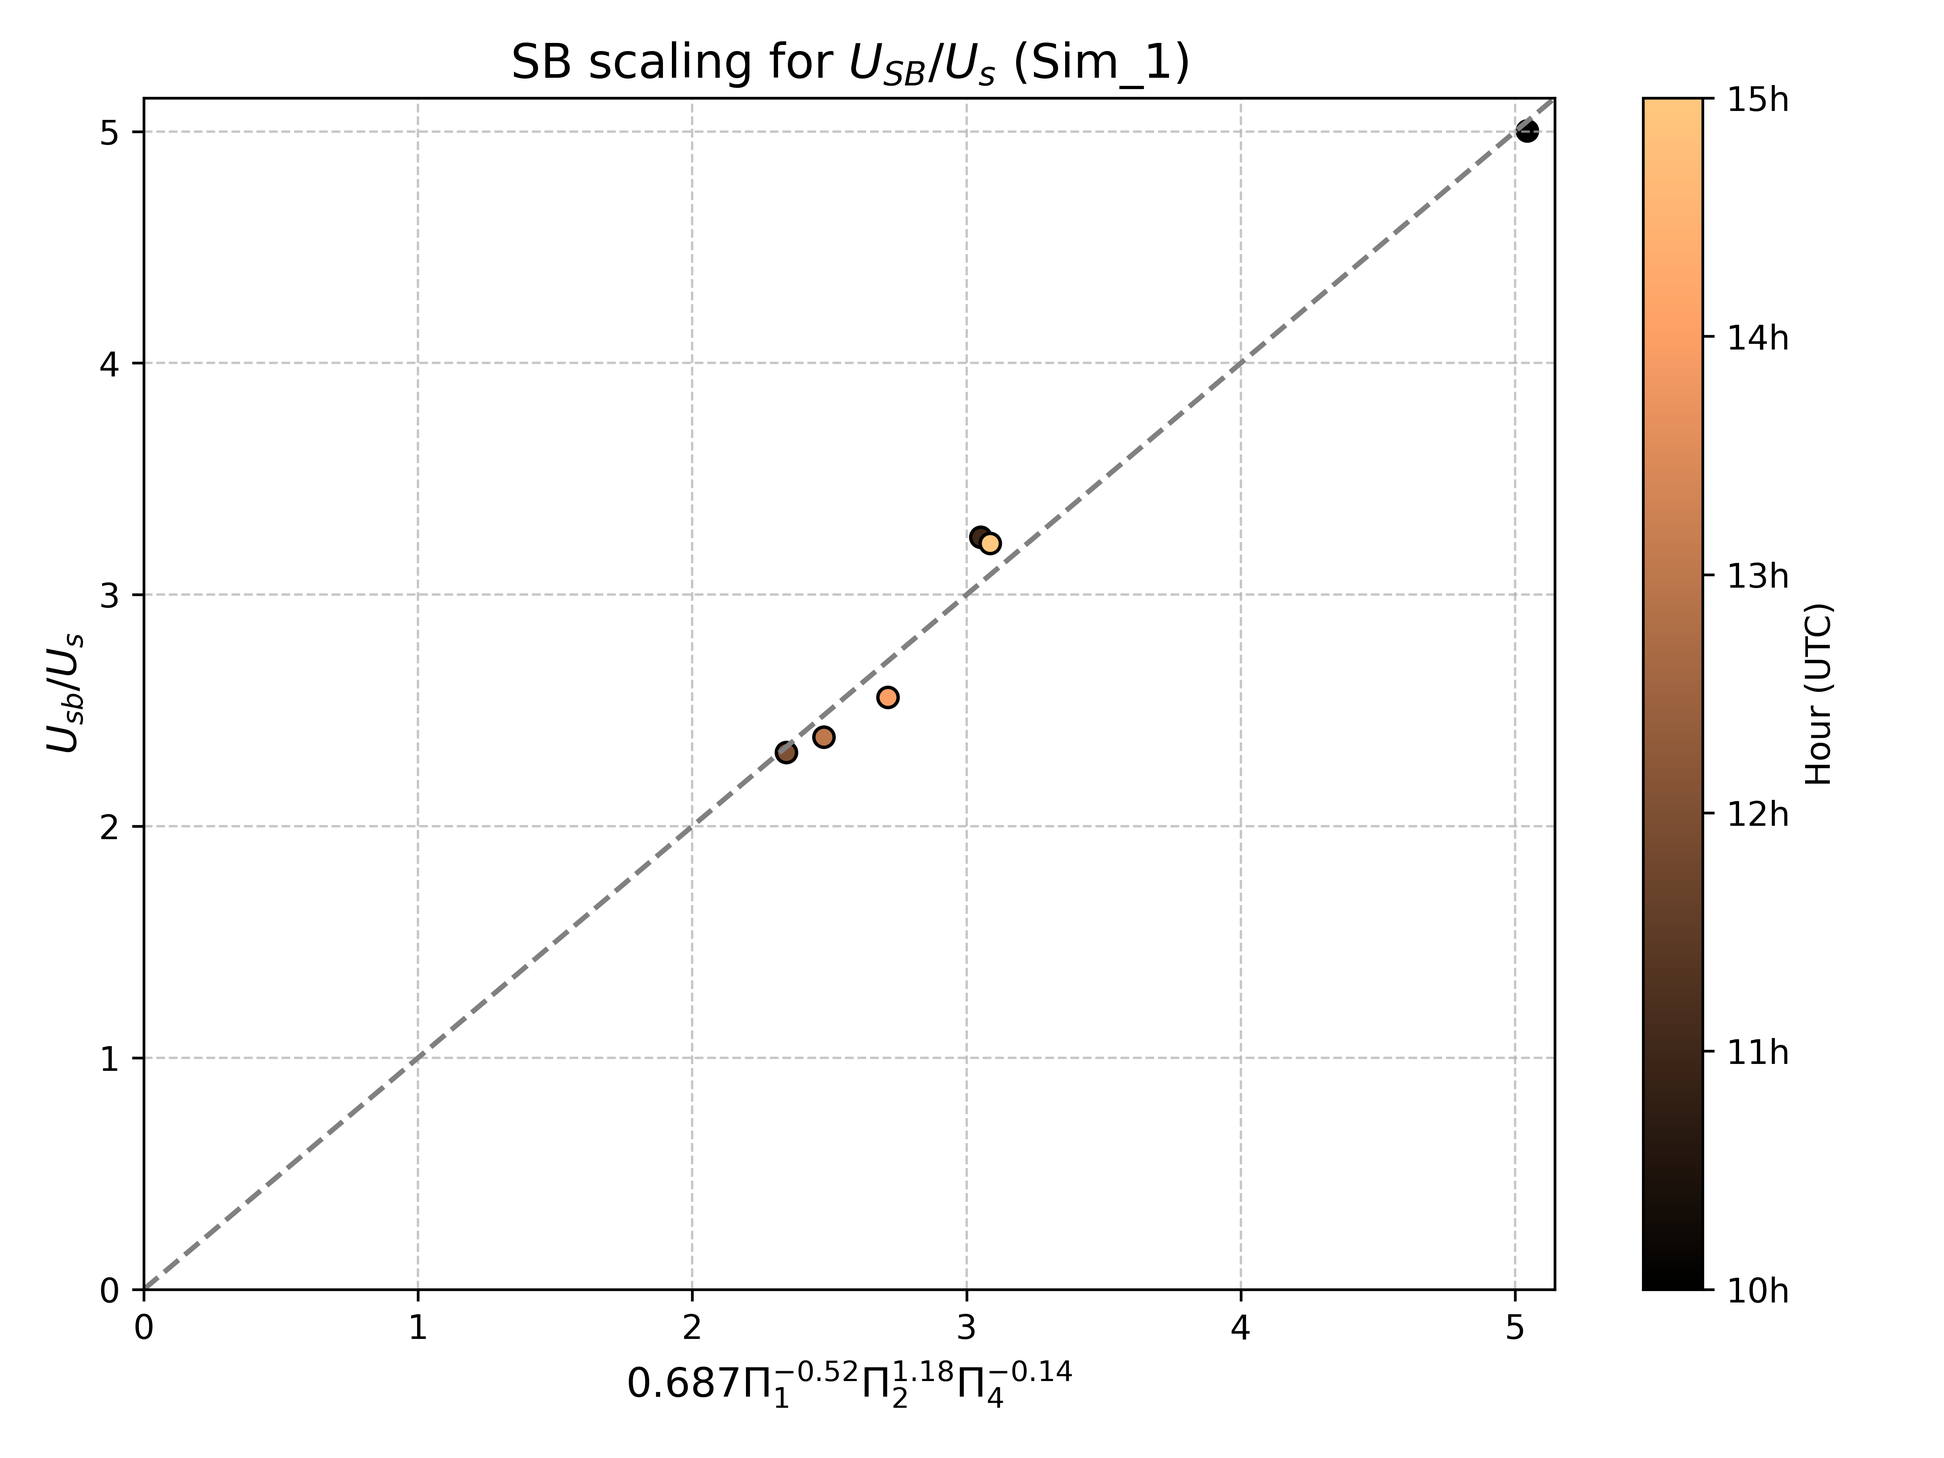
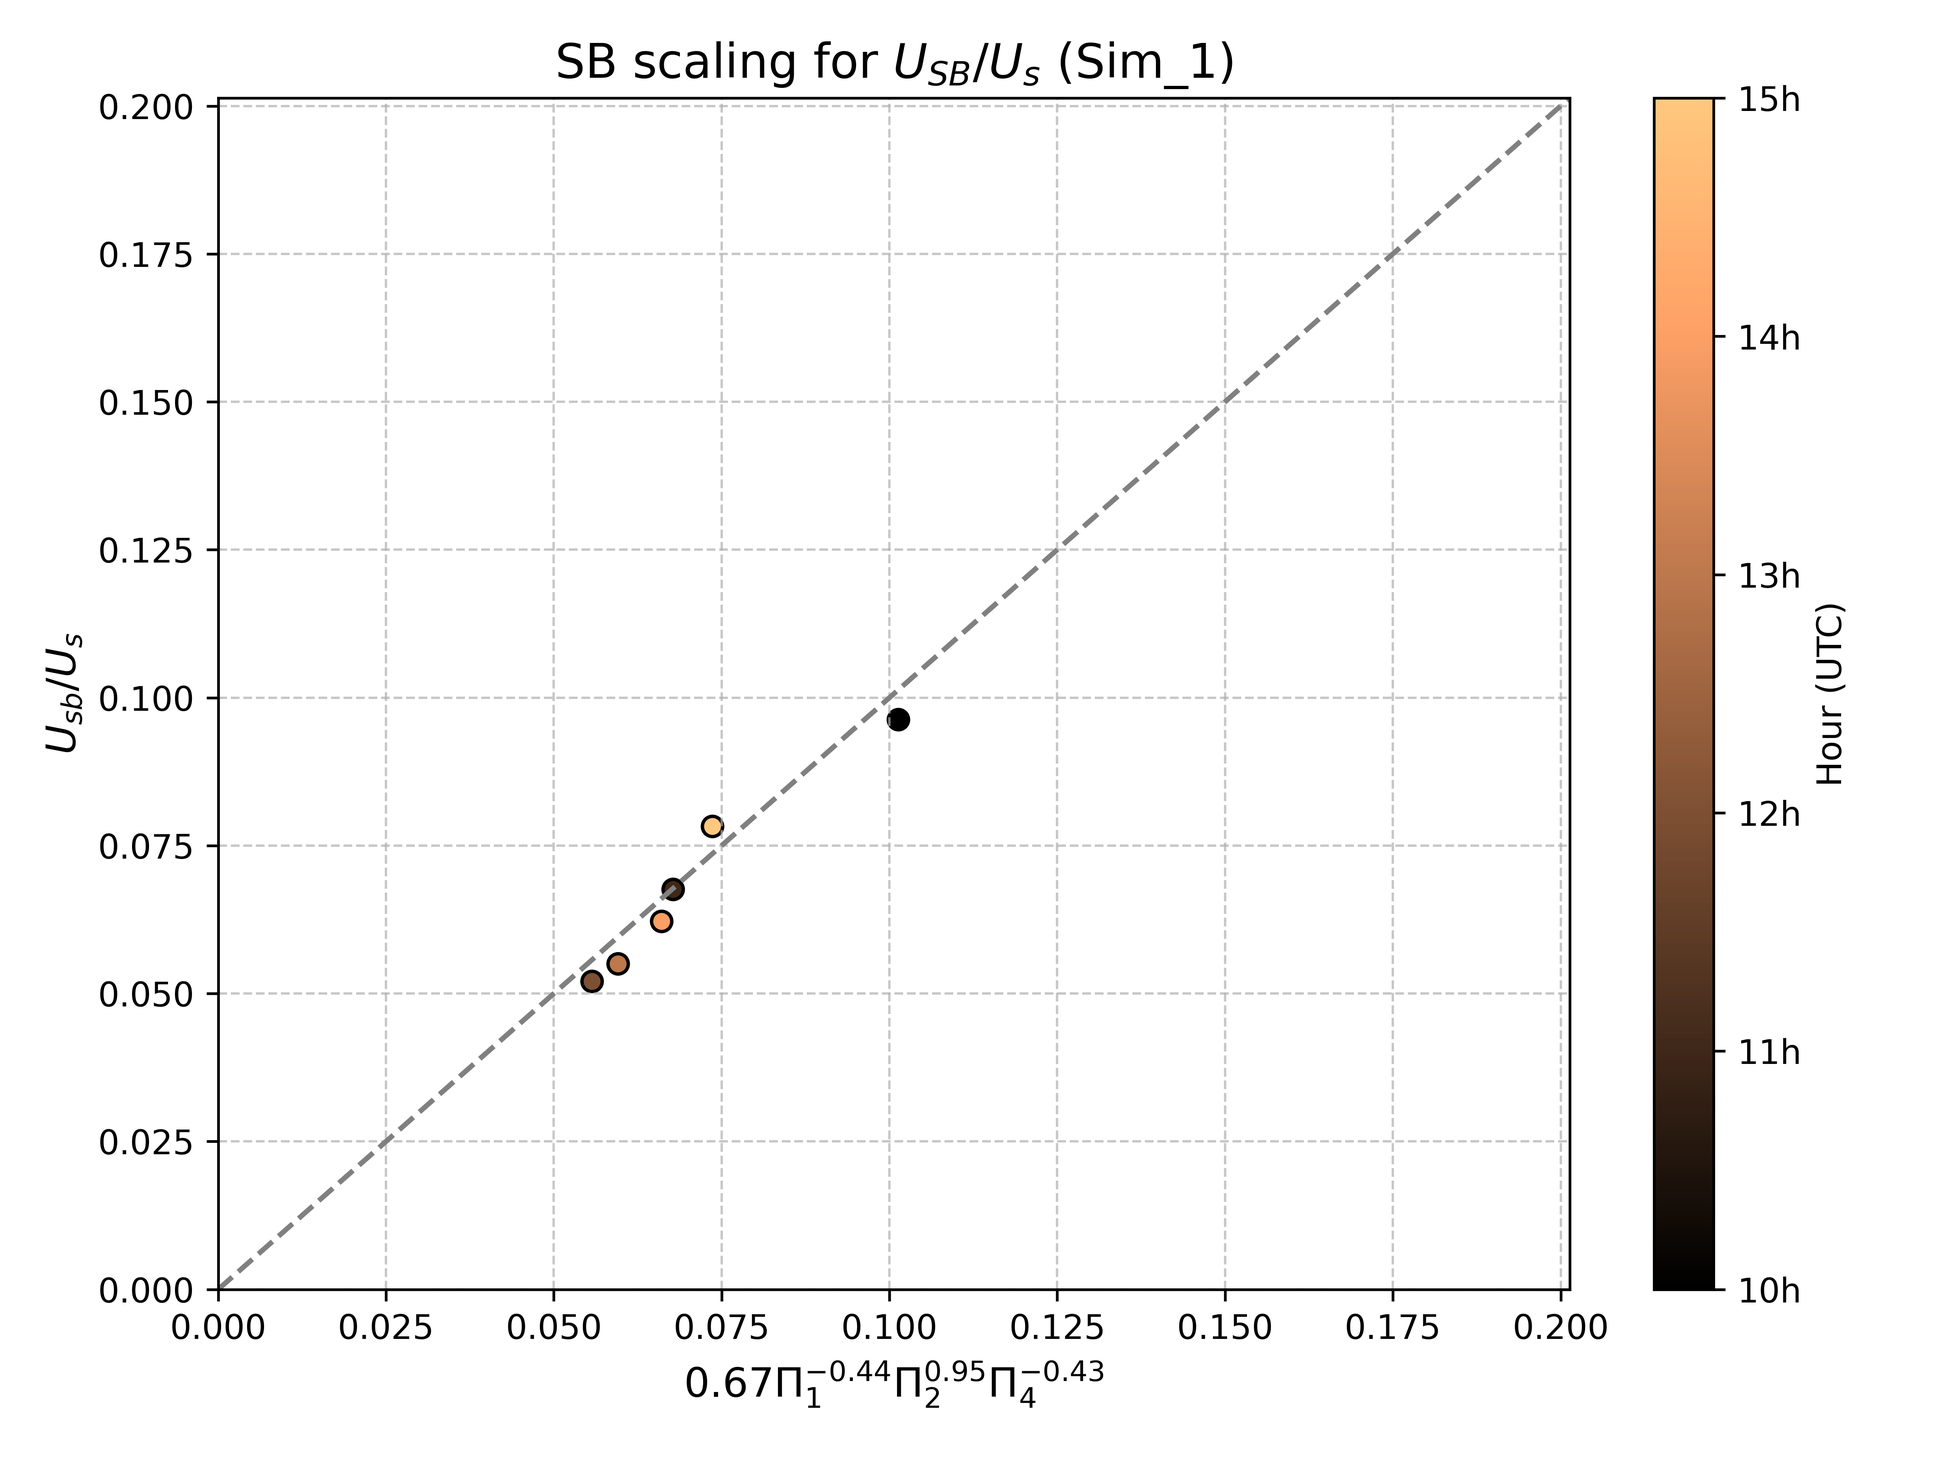
Actualización automática del proyecto y environment.yml

diff --git a/scripts/calculations/SB_scaling_WRF_bis.py b/scripts/calculations/SB_scaling_WRF_bis.py
@@ -30,8 +30,10 @@ ruta_actual = Path.cwd()  # Esto te lleva a SB_SCALING-Netherlands
 # Agregar la ruta del directorio 'import' donde están los scripts de importación
 sys.path.append(str(ruta_actual / 'scripts' / 'calculations'))
 sys.path.append(str(ruta_actual / 'scripts' / 'import'))
+sys.path.append(str(ruta_actual / 'scripts' / 'plots'))
 from processing_data import generate_WRF_df_STNvsDATETIME
 from import_wrfout_data import extract_point_data
+from plot_functions import simple_ts_plot
 
 ######################################################################
 #### PARAMETROS INICIALES
@@ -65,7 +67,7 @@ g = 9.81 # m/s2
 omega = 2*np.pi/(86400)  #s-1
 lat_angle = 52 #º
 f = 2* omega * np.sin(lat_angle) #s-1
-
+breakpoint()
 # Parametros para el cálculo de N:
 heights_gamma = (1000,1500) # Intervalo de alturas entre las que se calculara el lapse rate
 
@@ -139,7 +141,8 @@ def generate_table_parameters_SB_scaling(file_path, file_name, stn_code, a, b, c
 
 ######################################################################
 
-for land_stn in coords_KNMI_land_and_sea[coords_KNMI_land_and_sea['LOC'] == 'coast'].index:
+for land_stn in coords_KNMI_land_and_sea[coords_KNMI_land_and_sea['LOC'] == 'coast'].index[:-1]:
+    print(land_stn)
         
     lat_punto = coords_KNMI_land_and_sea.loc[land_stn]['LAT(north)']  # Latitud
     lon_punto = coords_KNMI_land_and_sea.loc[land_stn]['LON(east)']  # Longitud
@@ -458,7 +461,13 @@ for land_stn in coords_KNMI_land_and_sea[coords_KNMI_land_and_sea['LOC'] == 'coa
         SB_scaling_data['Pi_2'] = SB_scaling_data['f'] / SB_scaling_data['omega']
         SB_scaling_data['Pi_4'] = SB_scaling_data['N'] / SB_scaling_data['omega']
         SB_scaling_data.to_csv(f'{path_to_figs}/SB_scaling_data_{sim_name}_STN{land_stn}.csv')
-        
+    else:
+        SB_scaling_data = pd.read_csv(f'{path_to_figs}/SB_scaling_data_{sim_name}_STN{land_stn}.csv', index_col=0)
+
+        # Ensure the index is a DatetimeIndex
+        if not isinstance(SB_scaling_data.index, pd.DatetimeIndex):
+            SB_scaling_data.index = pd.to_datetime(SB_scaling_data.index)
+            
     Pi_1 = SB_scaling_data['Pi_1'].values
     Pi_2 = SB_scaling_data['Pi_2'].values
     Pi_4 = SB_scaling_data['Pi_4'].values
@@ -471,22 +480,22 @@ for land_stn in coords_KNMI_land_and_sea[coords_KNMI_land_and_sea['LOC'] == 'coa
     #     return a * Pi_1**b * Pi_2**c * Pi_4**d
     def modelo_u_sb_u_s(Pi_1, Pi_2, Pi_4, a, b, c, d):
         return a * Pi_1**b * Pi_2**c * Pi_4**d
-    def modelo_z_sb_z_s(Pi_1, Pi_2, Pi_4, a, b, c, d):
+    def modelo_z_sb_z_s(Pi_1, Pi_2, Pi_4, a, b, c, d,):
             return a * Pi_1**b * Pi_2**c * Pi_4**d
 
     # bounds_lower = [0, -0.55, -2.3, 0.45]  # Ligeramente restringidos
     # bounds_upper = [10, -0.45, -2.2, 0.55]  # Ligeramente restringidos
     bounds_lower = [0, -3, -4, -4]  # Restricciones con sentido físico
     bounds_upper = [30, 3, 4, 4]  # Restricciones con sentido fisico
-
+     
     ## APLICAMOS EL SCALING A LA PROFUNDIDAD (Z)
     # Realizar el ajuste de curva no lineal
     # Inicializamos los valores de [a, b, c, d] en [1, -0.5, -1, 0.5] como ejemplo
     # Usamos lambda para pasar Pi_1, Pi_2, Pi_4 como argumentos individuales
-    popt, pcov = curve_fit(lambda P, a, b, c, d: modelo_z_sb_z_s(Pi_1 = Pi_1, Pi_2 = Pi_2, Pi_4 = Pi_4, a = a, b = b, c = c, d = d), 
+    popt, pcov = curve_fit(lambda P, a, b, c, d: modelo_z_sb_z_s(Pi_1 = Pi_1, Pi_2 = Pi_2, Pi_4 = Pi_4, a = a, b = b, c = c, d=d), 
                         xdata=np.zeros_like(Pi_1),  # xdata es solo un marcador, no se usa realmente
                         ydata=ydata_z, 
-                        p0=[0.85, -0.5, 9/4, 1/2],
+                        p0=[0.85, -0.5, 9/4, 2/3],
                         bounds = (bounds_lower, bounds_upper), maxfev=10000, ftol=1e-2, xtol=1e-2, gtol=1e-2)
     # Extraer los coeficientes ajustados
     a_z, b_z, c_z, d_z = popt
@@ -499,6 +508,8 @@ for land_stn in coords_KNMI_land_and_sea[coords_KNMI_land_and_sea['LOC'] == 'coa
     # Calcular los valores ajustados de u_sb/u_s usando los coeficientes ajustados
     z_sb_z_s_ajustado = a_z * SB_scaling_data['Pi_1']**b_z * SB_scaling_data['Pi_2']**c_z * SB_scaling_data['Pi_4']**d_z
 
+    bounds_lower = [0, -3, -4, -4]  # Restricciones con sentido físico
+    bounds_upper = [30, 3, 4, 4]  # Restricciones con sentido fisico
     ## APLICAMOS EL SCALING A LA INTENSIDAD (u)
     # Realizar el ajuste de curva no lineal
     # Inicializamos los valores de [a, b, c, d] en [1, -0.5, -1, 0.5] como ejemplo
@@ -520,108 +531,4 @@ for land_stn in coords_KNMI_land_and_sea[coords_KNMI_land_and_sea['LOC'] == 'coa
 
     # Calcular los valores ajustados de u_sb/u_s usando los coeficientes ajustados
     u_sb_u_s_ajustado = a_u * SB_scaling_data['Pi_1']**b_u * SB_scaling_data['Pi_2']**c_u * SB_scaling_data['Pi_4']**d_u
-    ###################### PLOT DE LA FIGURA ###########################
-    import matplotlib.cm as cm
-    import matplotlib.colors as mcolors
-
-    for atribute in ('depth', 'intensity'):
-        if atribute == 'depth':
-            x_data = a_z * SB_scaling_data['Pi_1']**b_z * SB_scaling_data['Pi_2']**c_z * SB_scaling_data['Pi_4']**d_z
-            y_data = ydata_z
-            str_atr = 'Z'
-            a, b,c, d = (a_z, b_z, c_z, d_z)
-        if atribute == 'intensity':
-            x_data = a_u * SB_scaling_data['Pi_1']**b_u * SB_scaling_data['Pi_2']**c_u * SB_scaling_data['Pi_4']**d_u
-            y_data = ydata_u
-            str_atr = 'U'
-            a, b,c, d = (a_u, b_u, c_u, d_u)      
-
-        norm = mcolors.Normalize(vmin=0, vmax=len(x_data) - 1)
-        colormap = cm.get_cmap("copper")  # Mapa de colores marrón (cobre)
-
-        # Crear los colores para cada punto
-        colors = [colormap(norm(i)) for i in range(len(x_data))]
-
-        # Crear la figura y el eje
-        fig, ax = plt.subplots(figsize=(8, 6))
-
-        # Gráfico de dispersión con colores
-        scatter = ax.scatter(x_data,y_data,color=colors,edgecolor='black')
-
-        # Línea x=y=1
-        x = np.linspace(0, 500, 100)
-        ax.plot(x, x, color='gray', linestyle='--', linewidth=1.5)
-        ax.set_xlim(0, np.max(((x_data.max() + 0.1), ((y_data).max() + 0.1))))
-        ax.set_ylim(0, np.max(((x_data.max() + 0.1), ((y_data).max() + 0.1))))
-        # Configuración de límites
-        # ax.set_xlim(0, 1.2)
-        # ax.set_ylim(0, 1.2)
-
-        ax.set_xlabel(
-            f"${{{np.round(a, 3)}}} \\Pi_1^{{{np.round(b, 2)}}} \\Pi_2^{{{np.round(c, 2)}}} \\Pi_4^{{{np.round(d, 2)}}}$", 
-            fontsize=12
-        )
-        # Etiquetas y título
-        ax.set_ylabel(
-            f"${str_atr}_{{sb}}/{str_atr}_{{s}}$", 
-            fontsize=12
-        )
-        ax.set_title(
-            f"SB scaling for ${str_atr}_{{SB}}/{str_atr}_{{s}}$ ({sim_name})", 
-            fontsize=14
-        )
-
-        # Barra de color asociada al gráfico de dispersión
-        cbar = fig.colorbar(cm.ScalarMappable(norm=norm, cmap=colormap), ax=ax, orientation='vertical', label='Hour (UTC)')
-        # Crear las etiquetas de tiempo (horas UTC)
-        time_labels = x_data.index.strftime('%Hh')
-        cbar.set_ticks(np.linspace(0, len(x_data) - 1, len(x_data)))
-        cbar.set_ticklabels(time_labels)
-        # Leyenda y rejilla
-
-        ax.grid(True, linestyle='--', linewidth=0.7, alpha=0.7)
-
-        # Guardar la figura
-        fig.tight_layout()
-        plt.savefig(f'{path_to_figs}/{str_atr}_SB_SCALING_WRF_STN{land_stn}_{sim_name}_d0{domain_number}_{date_of_interest}.png', dpi=600)
-
-
-#####################################################################
-
-var_plot = 'ΔT'
-import matplotlib.cm as cm
-import matplotlib.colors as mcolors
-
-norm = mcolors.Normalize(vmin=0, vmax=len(SB_scaling_data) - 1)
-colormap = cm.get_cmap("copper")  # Mapa de colores marrón (cobre)
-
-# Crear los colores para cada punto
-colors = [colormap(norm(i)) for i in range(len(SB_scaling_data))]
-
-# Crear la figura y el eje
-fig, ax = plt.subplots(figsize=(8, 6))
-
-# Gráfico de dispersión con colores
-scatter = ax.scatter(SB_scaling_data['u_sb'], SB_scaling_data[var_plot], color=colors,edgecolor='black')
-
-# Etiquetas y título
-ax.set_ylabel(f"{var_plot} (ºC)", fontsize=12)
-ax.set_xlabel(r'$u_{sb}$ (m/s)', fontsize=12)
-ax.set_title(f'Effect of {var_plot} on SB intensity', fontsize=14)
-
-# Barra de color asociada al gráfico de dispersión
-cbar = fig.colorbar(cm.ScalarMappable(norm=norm, cmap=colormap), ax=ax, orientation='vertical', label='Hour (UTC)')
-# Crear las etiquetas de tiempo (horas UTC)
-time_labels = SB_scaling_data.index.strftime('%Hh')
-cbar.set_ticks(np.linspace(0, len(SB_scaling_data['u_sb']) - 1, len(SB_scaling_data['u_sb'])))
-cbar.set_ticklabels(time_labels)
-
-# Leyenda y rejilla
-ax.legend()
-ax.grid(True, linestyle='--', linewidth=0.7, alpha=0.7)
-
-# Guardar la figura
-fig.tight_layout()
-plt.savefig(f'{path_to_figs}/usb-vs-{var_plot}_STN{land_stn}_{sim_name}_d0{domain_number}_{date_of_interest}.png', dpi=600)
-
-breakpoint()
+ 

diff --git a/scripts/calculations/SB_scaling_detph_and_intensity.py b/scripts/calculations/SB_scaling_detph_and_intensity.py
@@ -1,0 +1,169 @@
+from pathlib import Path
+import sys
+import numpy as np
+from scipy.optimize import curve_fit
+import netCDF4 as nc
+from datetime import datetime
+import pandas as pd
+import matplotlib.pyplot as plt
+import matplotlib.dates as mdates
+import os
+import xarray as xr
+from wrf import getvar, ll_to_xy
+import glob
+from netCDF4 import Dataset
+from wrf import getvar, extract_times, ALL_TIMES, latlon_coords, ll_to_xy, to_np
+
+# Obtener la ruta actual del proyecto (ruta raíz SB_SCALING-Netherlands)
+ruta_actual = Path.cwd()  # Esto te lleva a SB_SCALING-Netherlands
+
+# Agregar la ruta del directorio 'import' donde están los scripts de importación
+sys.path.append(str(ruta_actual / 'scripts' / 'calculations'))
+sys.path.append(str(ruta_actual / 'scripts' / 'import'))
+sys.path.append(str(ruta_actual / 'scripts' / 'plots'))
+from processing_data import generate_WRF_df_STNvsDATETIME
+from import_wrfout_data import extract_point_data
+from plot_functions import simple_ts_plot
+
+######################################################################
+#### PARAMETROS INICIALES
+
+# Switches:
+compute_SB_scaling_data = True # Activa el calculo de las variables N, H, Gamma etc para el scaling
+                                # Si es =False, se importan los datos previamente calculados
+
+
+# Info especifica de la simulación a utilizar para el scaling:
+sim_name = 'Sim_1'
+domain_number = '2'
+date_of_interest = '2014-07-16'
+
+# Codigos de las estaciones del KNMI desde las que se buscara el punto de malla más cercano y
+# se procederá al cálculo de ΔT:
+land_stn = 344#209, 210, 215, 225, 240, 257, 330, 343, 344, 
+sea_stn = 320
+ruta_coords_KNMI_land = ruta_actual / 'data' / 'Obs' / 'Coords_KNMI_land.csv'
+ruta_coords_KNMI_NorthSea = ruta_actual / 'data' / 'Obs' / 'Coords_KNMI_NorthSea.csv'
+### LEO LOS FICHEROS DE LAS COORDENADAS DE LAS ESTACIONES
+coords_KNMI_land = pd.read_csv(ruta_coords_KNMI_land, sep=',', header=0, usecols=['STN', 'LON(east)', 'LAT(north)', 'ALT(m)', 'NAME', 'LOC'])
+coords_KNMI_land.set_index('STN', inplace=True)
+coords_KNMI_NorthSea = pd.read_csv(ruta_coords_KNMI_NorthSea, sep=',', header=0, usecols=['STN', 'LON(east)', 'LAT(north)', 'ALT(m)', 'NAME', 'LOC'])
+coords_KNMI_NorthSea.set_index('STN', inplace=True)
+
+coords_KNMI_land_and_sea = pd.concat([coords_KNMI_land, coords_KNMI_NorthSea])
+# breakpoint()
+# Constantes
+g = 9.81 # m/s2
+omega = 2*np.pi/(86400)  #s-1
+lat_angle = 52 #º
+f = 2* omega * np.sin(lat_angle) #s-1
+
+# Parametros para el cálculo de N:
+heights_gamma = (1000,1500) # Intervalo de alturas entre las que se calculara el lapse rate
+
+# Input
+dir_files = f'{ruta_actual}/data/Models/WRF/{sim_name}/'
+dir_wrf_files = sorted([os.path.join(dir_files, f) for f in os.listdir(dir_files) if f.startswith(f'wrfout_{sim_name}_d0{domain_number}_{date_of_interest}')]) # Obtener la lista de archivos WRF
+
+## Output:
+path_to_table = Path.cwd().joinpath(f'figs/SB_scaling') # Aquí se guardan los coeficientes a,b,c y e calculados en el scaling
+path_to_figs = Path.cwd().joinpath(f'figs/SB_scaling/{sim_name}') # Aquí se guardan las figuras derivadas del scaling
+######################################################################
+
+
+###################### PLOT DE LA FIGURA ###########################
+import matplotlib.cm as cm
+import matplotlib.colors as mcolors
+
+table_parameters_z = pd.read_csv(f'{path_to_table}/SB_depth_scaling_parameters_diff_locs_{sim_name}.csv', index_col=0)
+table_parameters_u = pd.read_csv(f'{path_to_table}/SB_intensity_scaling_parameters_diff_locs_{sim_name}.csv', index_col=0)
+
+for land_stn in coords_KNMI_land_and_sea[coords_KNMI_land_and_sea['LOC'] == 'coast'].index:
+        
+    lat_punto = coords_KNMI_land_and_sea.loc[land_stn]['LAT(north)']  # Latitud
+    lon_punto = coords_KNMI_land_and_sea.loc[land_stn]['LON(east)']  # Longitud
+    SB_scaling_data = pd.read_csv(f'{path_to_figs}/SB_scaling_data_{sim_name}_STN{land_stn}.csv', index_col=0)
+    if not isinstance(SB_scaling_data.index, pd.DatetimeIndex):
+        SB_scaling_data.index = pd.to_datetime(SB_scaling_data.index)
+    ydata_u = (SB_scaling_data['u_sb'] / SB_scaling_data['u_s']).values
+    ydata_z = (SB_scaling_data['z_sb'] / SB_scaling_data['z_s']).values
+    a_z, b_z, c_z, d_z = np.array(table_parameters_z.loc[land_stn])
+    a_u, b_u, c_u, d_u = np.array(table_parameters_u.loc[land_stn])
+
+
+
+    for atribute in ('depth', 'intensity'):
+        if atribute == 'depth':
+            x_data = a_z * SB_scaling_data['Pi_1']**b_z * SB_scaling_data['Pi_2']**c_z * SB_scaling_data['Pi_4']**d_z
+            y_data = ydata_z
+            str_atr = 'Z'
+            a, b,c, d = (a_z, b_z, c_z, d_z)
+        if atribute == 'intensity':
+            x_data = a_u * SB_scaling_data['Pi_1']**b_u * SB_scaling_data['Pi_2']**c_u * SB_scaling_data['Pi_4']**d_u
+            y_data = ydata_u
+            str_atr = 'U'
+            a, b,c, d = (a_u, b_u, c_u, d_u)      
+        
+        norm = mcolors.Normalize(vmin=0, vmax=len(x_data) - 1)
+        colormap = cm.get_cmap("copper")  # Mapa de colores marrón (cobre)
+
+        # Crear los colores para cada punto
+        colors = [colormap(norm(i)) for i in range(len(x_data))]
+
+        # Crear la figura y el eje
+        fig, ax = plt.subplots(figsize=(8, 6))
+
+        # Gráfico de dispersión con colores
+        scatter = ax.scatter(x_data,y_data,color=colors,edgecolor='black')
+
+        # Línea x=y=1
+        x = np.linspace(0, 500, 100)
+        ax.plot(x, x, color='gray', linestyle='--', linewidth=1.5)
+        ax.set_xlim(0, np.max(((x_data.max() + 0.1), ((y_data).max() + 0.1))))
+        ax.set_ylim(0, np.max(((x_data.max() + 0.1), ((y_data).max() + 0.1))))
+        # Configuración de límites
+        # ax.set_xlim(0, 1.2)
+        # ax.set_ylim(0, 1.2)
+
+        ax.set_xlabel(
+            f"${{{np.round(a, 3)}}} \\Pi_1^{{{np.round(b, 2)}}} \\Pi_2^{{{np.round(c, 2)}}} \\Pi_4^{{{np.round(d, 2)}}}$", 
+            fontsize=12
+        )
+        # Etiquetas y título
+        ax.set_ylabel(
+            f"${str_atr}_{{sb}}/{str_atr}_{{s}}$", 
+            fontsize=12
+        )
+        ax.set_title(
+            f"SB scaling for ${str_atr}_{{SB}}/{str_atr}_{{s}}$ ({sim_name})", 
+            fontsize=14
+        )
+
+        # Barra de color asociada al gráfico de dispersión
+        cbar = fig.colorbar(cm.ScalarMappable(norm=norm, cmap=colormap), ax=ax, orientation='vertical', label='Hour (UTC)')
+        # Crear las etiquetas de tiempo (horas UTC)
+        time_labels = x_data.index.strftime('%Hh')
+        cbar.set_ticks(np.linspace(0, len(x_data) - 1, len(x_data)))
+        cbar.set_ticklabels(time_labels)
+        # Leyenda y rejilla
+
+        ax.grid(True, linestyle='--', linewidth=0.7, alpha=0.7)
+
+        # Guardar la figura
+        fig.tight_layout()
+        plt.savefig(f'{path_to_figs}/{str_atr}_SB_SCALING_WRF_STN{land_stn}_{sim_name}_d0{domain_number}_{date_of_interest}.png', dpi=600)
+
+        ####################################################################
+
+        var_plot = ('ΔT', 'N', 'H', 'Pi_1', 'Pi_2', 'Pi_4')
+        var_plot_units = ('ºC', 's-1', 'W/m2', 'adim', 'adim', 'adim')
+
+
+        fig, ax = plt.subplots(figsize=(8, 15))
+        ax.axis('off')
+        for i in range(len(var_plot)):
+            ax = fig.add_subplot(6, 1, i+1)
+            simple_ts_plot(SB_scaling_data.index, SB_scaling_data[var_plot[i]], color='k', data_label=var_plot[i], linestyle = '-',
+                            tuple_xlim=None, tuple_ylim=None, str_ylabel=var_plot_units[i], legend_loc='best', 
+                            str_savefig=None, ax=ax)
+        fig.savefig(f'{path_to_figs}/ts_key_parameters_{sim_name}_d0{domain_number}_{date_of_interest}.png')
